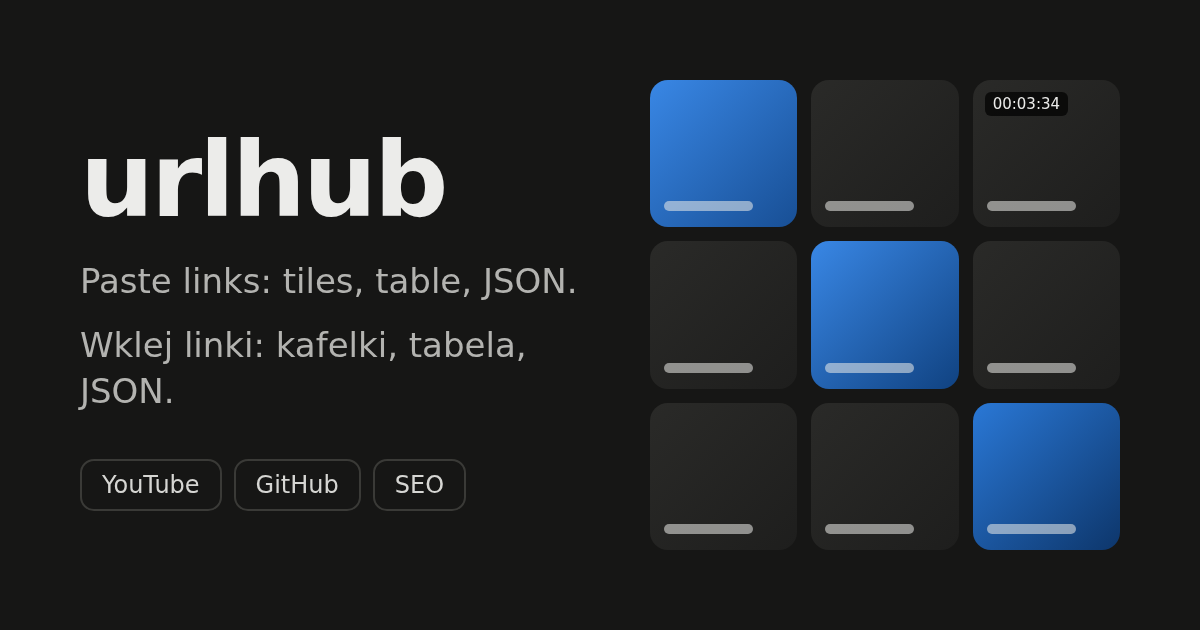
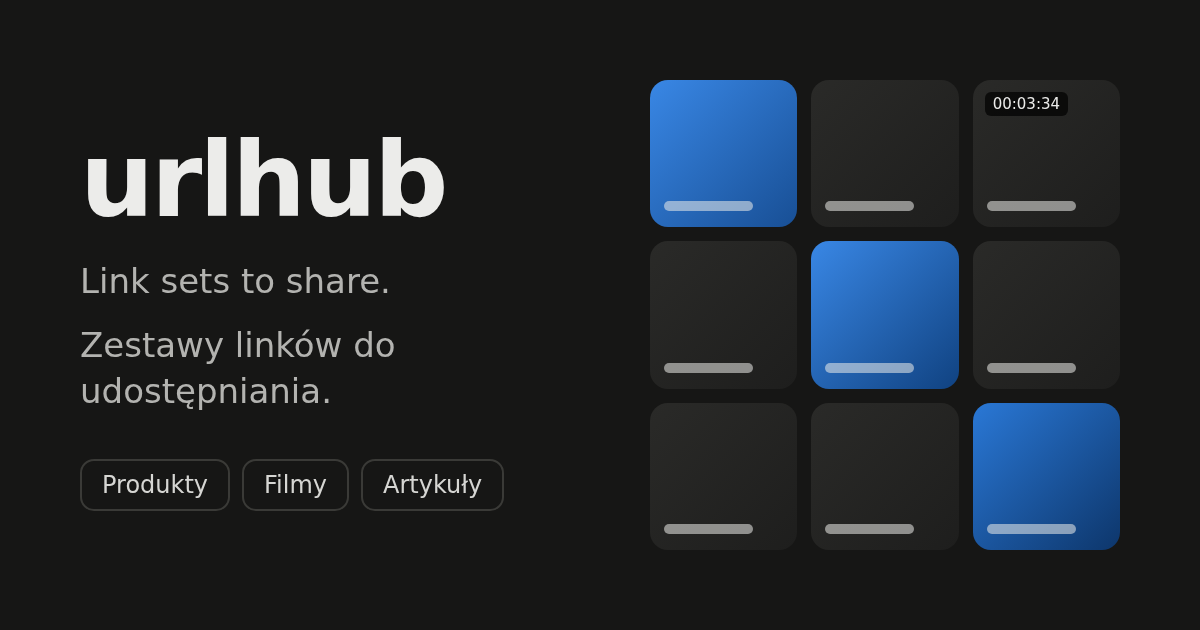
Present urlhub as a place to collect and share sets of links
The home page described a link preview tool. The header, the three
points, the page title and description, the share preview and its
picture now say what it is for: collecting links to products, videos and
articles into sets (a gift list, a gear comparison) and sending a whole
set with one link; arranging and comparing come third, with Check SEO as
a note for site owners.

diff --git a/tests/e2e/urlhub.spec.ts b/tests/e2e/urlhub.spec.ts
@@ -424,7 +424,7 @@ test('a shared link shows its list in messengers: Open Graph tags rendered by th
 	const en = await (await request.get(address, { headers: { 'accept-language': 'en-US' } })).text();
 	expect(meta(en, 'og:title')).toBe('5 links: example.test, github.com, vimeo.com +2');
 	expect(meta(en, 'og:description')).toBe(
-		'example.test/a?x=1&y=2 · github.com/x · vimeo.com/1 · c.test/ … — Open them as tiles, a table or JSON on urlhub.'
+		'example.test/a?x=1&y=2 · github.com/x · vimeo.com/1 · c.test/ … — Open the whole set on urlhub.'
 	);
 	expect(meta(en, 'og:image')).toBe('http://127.0.0.1:4173/og.png');
 	expect(meta(en, 'twitter:card')).toBe('summary_large_image');
@@ -435,7 +435,7 @@ test('a shared link shows its list in messengers: Open Graph tags rendered by th
 	expect(meta(pl, 'og:locale')).toBe('pl_PL');
 
 	const plain = await (await request.get('/')).text();
-	expect(meta(plain, 'og:title')).toBe('urlhub – link previews');
+	expect(meta(plain, 'og:title')).toBe('urlhub – link sets to share');
 	expect((await request.get('/og.png')).headers()['content-type']).toBe('image/png');
 });
 
@@ -445,14 +445,14 @@ test('the empty page explains itself, and "Try an example" fetches working examp
 	await page.goto('/?lang=pl');
 	await expect(page.getByLabel('Linki', { exact: true })).toHaveValue('');
 	await expect(
-		page.getByRole('list', { name: 'Co robi urlhub' }).getByRole('listitem')
+		page.getByRole('list', { name: 'Do czego służy urlhub' }).getByRole('listitem')
 	).toHaveCount(3);
 	await page.getByRole('button', { name: 'Wypróbuj przykład' }).click();
 	await expect(summary(page)).toHaveText('6 linków');
 	const sent = (await lastRequest(page)).text.split('\n');
 	expect(sent).toContain('https://pl.wikipedia.org/wiki/Mars');
 	expect(sent).toContain('https://kosmos.info.pl/pl/home');
-	await expect(page.getByRole('list', { name: 'Co robi urlhub' })).toHaveCount(0);
+	await expect(page.getByRole('list', { name: 'Do czego służy urlhub' })).toHaveCount(0);
 });
 
 test('menus open with the keyboard, move with the arrows and close with Escape', async ({

diff --git a/src/routes/+page.svelte b/src/routes/+page.svelte
@@ -460,7 +460,7 @@
 		</section>
 	{:else if !query.loading}
 		<ul class="features" aria-label={i18n.t('features.label')}>
-			{#each ['tiles', 'seo', 'share'] as const as f (f)}
+			{#each ['tiles', 'share', 'seo'] as const as f (f)}
 				<li><b>{i18n.t(`features.${f}.title`)}</b>{i18n.t(`features.${f}.text`)}</li>
 			{/each}
 		</ul>
